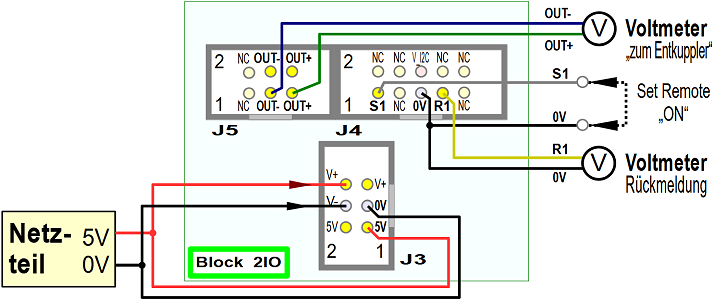
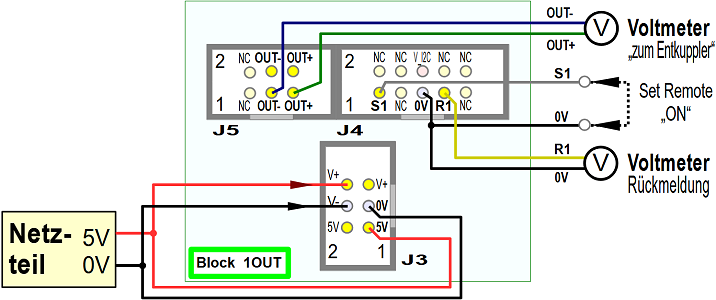
Update LIESMICH.md

diff --git a/fab/rcc4_block/LIESMICH.md b/fab/rcc4_block/LIESMICH.md
@@ -451,7 +451,7 @@ _Zum Beispiel:_
 * gelb: R1 von J4-7 zum Voltmeter COM (-)   
 
 ![1OUT Testverkabelung](/images/300_1OUT_test_wiring.png "1OUT Testverkabelung") &nbsp; ![1OUT Testverkabelung2](/images/300_1OUT_test_wiring_img2.png "1OUT Testverkabelung2")   
-_Bild 31: Verkabelung zum Testen des 2IO-Blocks_   
+_Bild 31: Verkabelung zum Testen des 1OUT-Blocks_   
 
 Statt der beiden eingezeichneten Voltmeter kann nat&uuml;rlich auch nur eines verwendet werden.   
 
